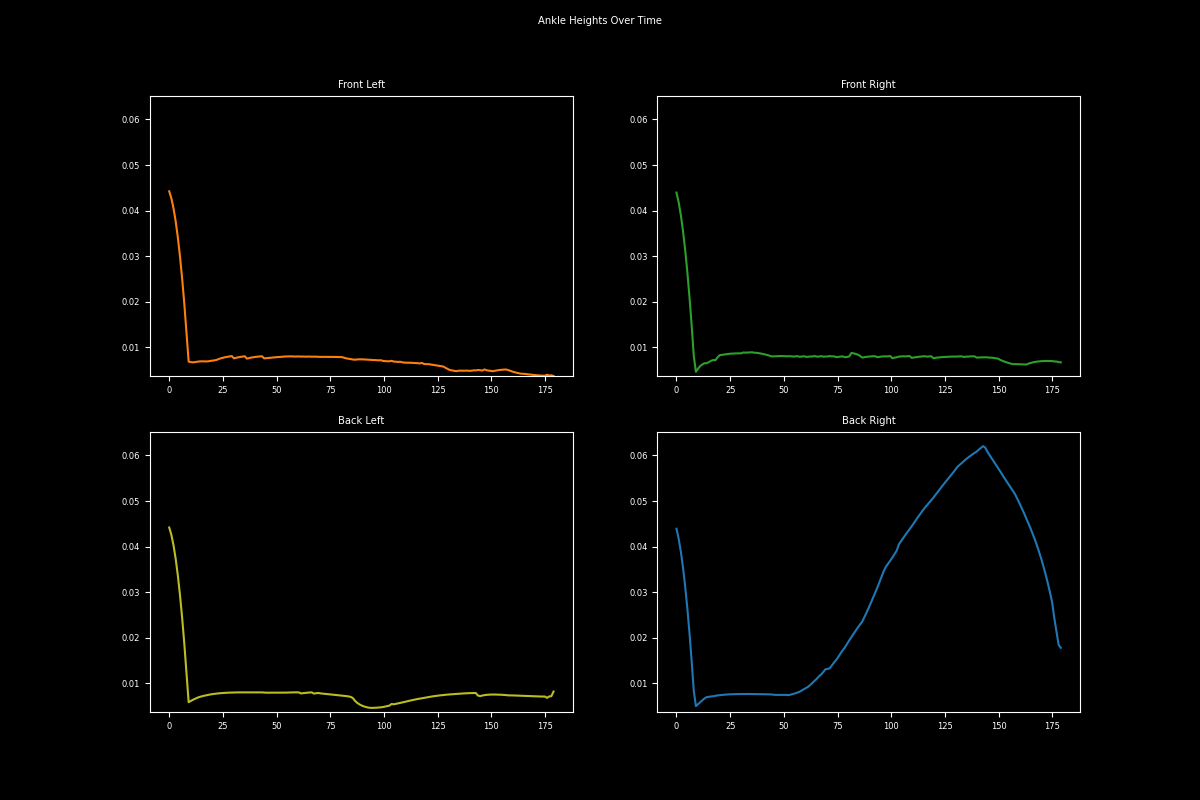
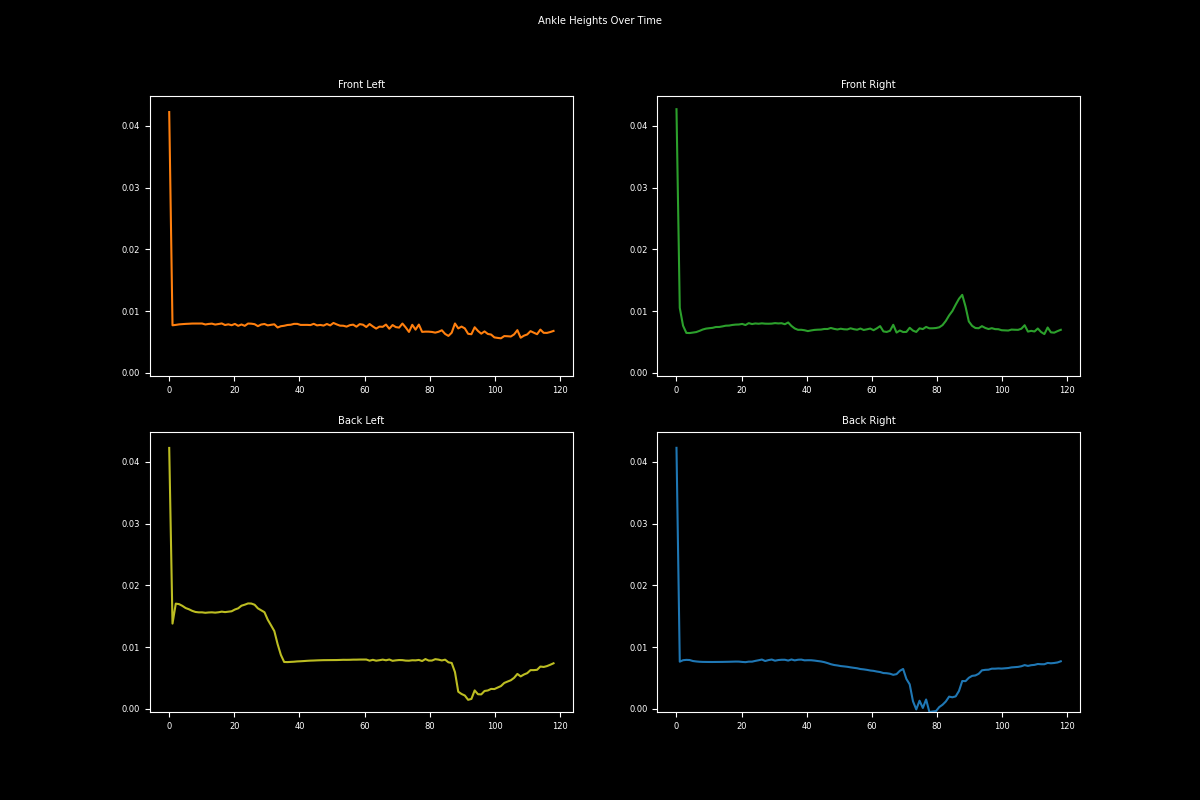
testing step detection

diff --git a/spider_bot/environments.py b/spider_bot/environments.py
@@ -44,7 +44,10 @@ class SpiderBotSimulator(Env):
         self.camera = Camera(self.physics_client, initial_pos = self.initial_position)
         self.camera_tracking = False
         self.prev_cd = [True, True, True, True]
+        self.has_stepped = [False, False, False, False]
+        self.height_threshold = 0.05
         self.rising_edges = [[0] for _ in range(4)]
+        self.steps = [0 for _ in range(4)]
         
         self.action_space = spaces.Box(
             low = np.full(12, -1),
@@ -97,11 +100,18 @@ class SpiderBotSimulator(Env):
         info = self.get_info()
 
         cd = info['contact-data']
+        ankle_heights = np.array(info['ankle-pos']).T[2]
+
         assert len(cd) == 4
         for i in range(len(cd)):
             self.rising_edges[i].append(int(cd[i] == False and self.prev_cd[i]))
+            self.has_stepped[i] = not (cd[i] and not self.prev_cd[i])
         self.prev_cd = cd
-        
+
+        for i, height in enumerate(ankle_heights):
+            if height > self.height_threshold and not self.has_stepped[i]: self.steps[i] += 1
+        #ic(self.has_stepped, self.steps, cd, ankle_heights)
+
         self.spider.clamp_joints(verbose=False)
         #self.spider.debug_joints(verbose=False)
         
@@ -221,6 +231,7 @@ class SpiderBotSimulator(Env):
         self.i = 0
         self.t = 0
         self.rising_edges = [[0] for _ in range(4)]
+        self.steps = [0 for _ in range(4)]
         self.velocity = 0
         self.initial_position = self.spider.get_pos()
         self.last_position = None

diff --git a/driver.py b/driver.py
@@ -127,8 +127,8 @@ class Driver:
         except KeyboardInterrupt:
             env.close()
         filtered_rising_edges = env.get_filtered_rising_edges()
-
-        fitness = self.calc_fitness(env.spider.get_pos(), env.initial_position, filtered_rising_edges)
+        steps = env.steps
+        fitness = sum(steps)#self.calc_fitness(env.spider.get_pos(), env.initial_position, filtered_rising_edges)
 
         if verbose:
             ic('Done!')
